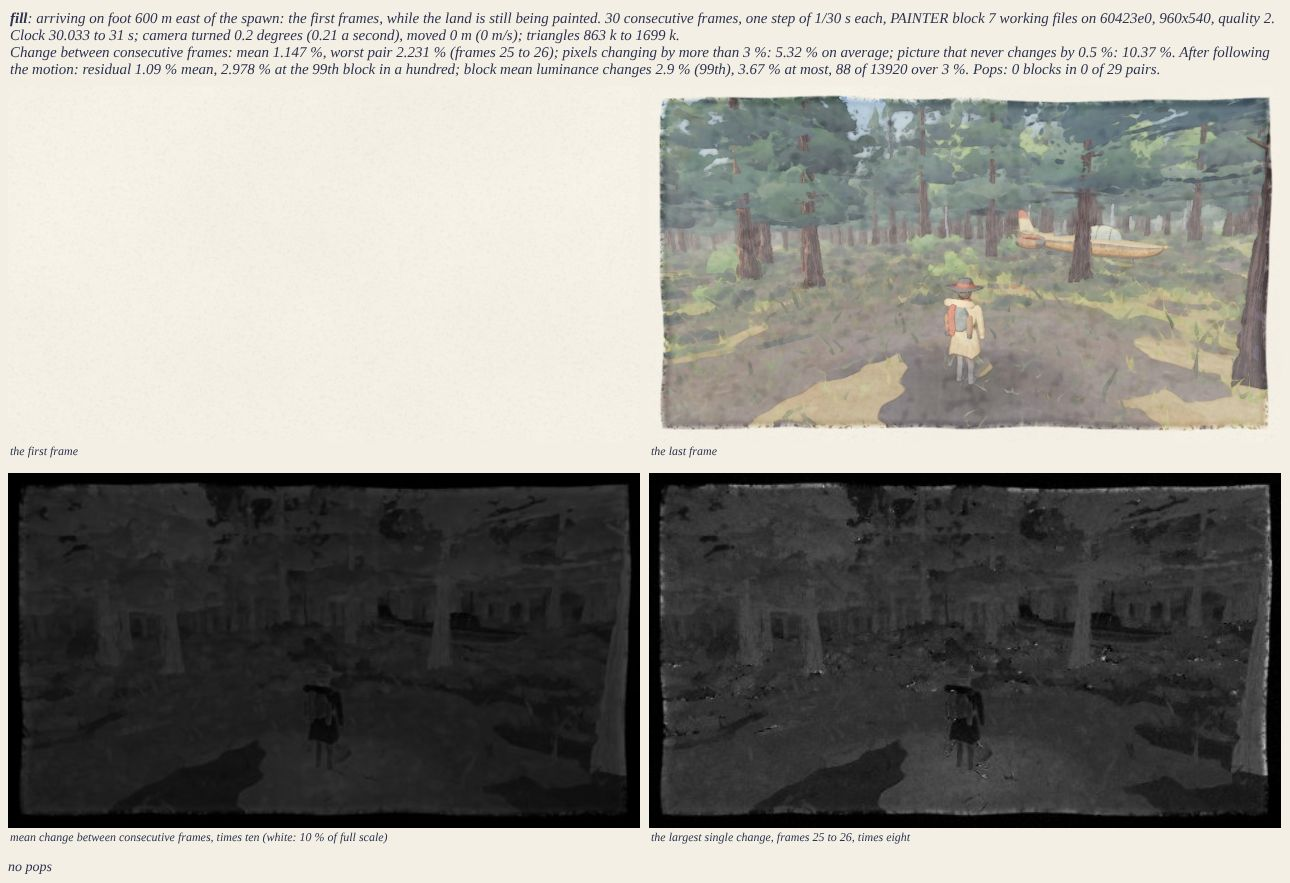
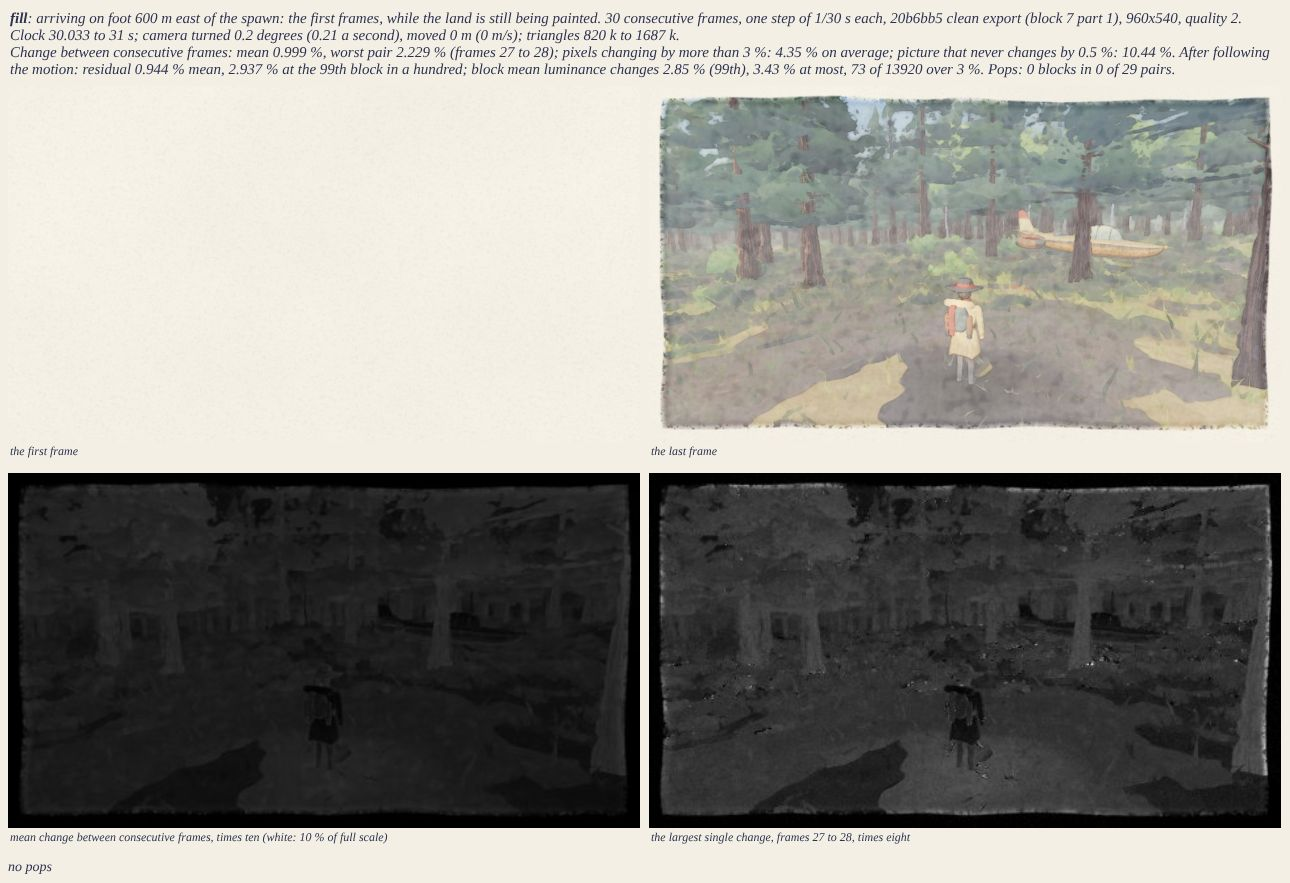
[painter] WIP snapshot of in-progress files (backup made by the coordinator)

diff --git a/src/art/gallery.js b/src/art/gallery.js
@@ -327,6 +327,7 @@ function placeModel(m, east, north, lift, face) {
 // body's): the feet and the hips by PHYSICS' own stride (gaitOf; the feet and the bob as its stepGait lays them, a
 // steady pace on level ground), so that the figure can be checked pose by pose as the game will pass it.
 const GAIT = P.has('gait') ? { v: num('gait', 4.2), g: P.has('grav') ? num('grav', 9) : BODIES[bodyId].gravity, s: P.has('stride') ? num('stride', 0) : 0, hold: P.has('stride') } : null;
+if (GAIT) window.__pcGait = GAIT;     // (a tool may set .s, .v, .g between frames: a strip from one load)
 function gaitPose(dt) {
   const T = EXPLORER_BODY, o = gaitOf(Math.max(0.12, GAIT.v), GAIT.g, T, {});
   if (!GAIT.hold && o.step > 0) GAIT.s = (GAIT.s + GAIT.v * dt / (2 * o.step)) % 1;

diff --git a/docs/notes/painter.md b/docs/notes/painter.md
@@ -69,6 +69,29 @@ Block 5 and the earlier records follow; "Rules that bit me" of the earlier agent
   brush at full resolution. (5) The short list (two vistas in a thicket, Mars' dune crests,
   branch sway and drifts, the explorer's face, the UI look review).
 
+## M3 block 7: the picture holding in motion, and the weather (ninth and tenth PAINTER agents)
+
+The ninth agent was stopped by a usage limit mid-block; its record is the message of `b022507`
+("Block 7, part 1") and its unfinished files in the coordinator's backup `6b900e6`. The tenth
+agent verified it on clean exports and finished it. Everything below was rendered from a clean
+export (`tools/export-head.sh`) at the top tier (quality 2), 960 x 540, and **opened** unless
+it says otherwise.
+
+### Item 1: verifying block 7 part 1 (tenth agent)
+
+- **Walk** (`node tests/motion.mjs --only walk`, clean export of `20b6bb5`; sheet
+  `docs/shots/painter/motion-walk-after.jpg`, opened): mean change 3.10 % (3.60 before, lead's
+  `motion-walk.jpg`), 19 pop blocks in 12 of 47 pairs (13 in 9 before), **every one with
+  triangles +0**: no tree changed tier, appeared or doubled in the 48 frames. What the
+  instrument calls pops are the near birch trunk sliding past the eye (its bark marks do not
+  follow the block match) and a step puff at the boot. Verdict: **passes**; the near strokes
+  did not re-lay over the 6.65 m walked.
+- **Fill** (arrival 600 m east, 30 frames, `motion-fill-after.jpg`, opened): frame 0 is bare
+  paper, frame 29 (1 s) the picture half up out of the paper, pale, everything at once, sky a
+  touch ahead of the ground; **0 pops** (498 pop blocks in 29 of 29 pairs before); mean change
+  1.0 % a frame, spread evenly over the sheet (no tile, no stipple). The instrument's second is
+  shorter than the arrival; the whole of it is filmed below.
+
 ## M3 block 6: each world's idea in its first view, motion faults, orbit (eighth PAINTER agent)
 
 INTEGRATION: see the last lines of this section for what was run on a clean export.
